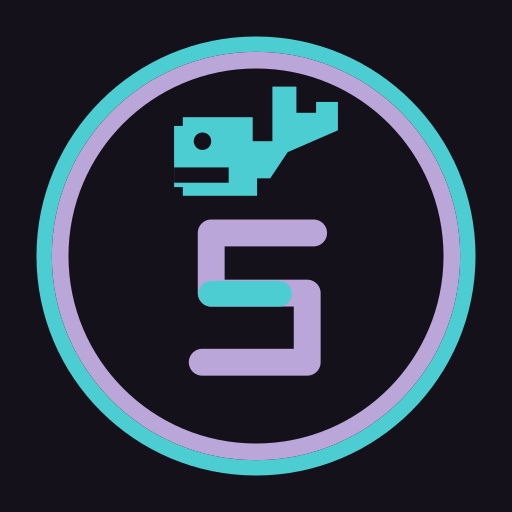
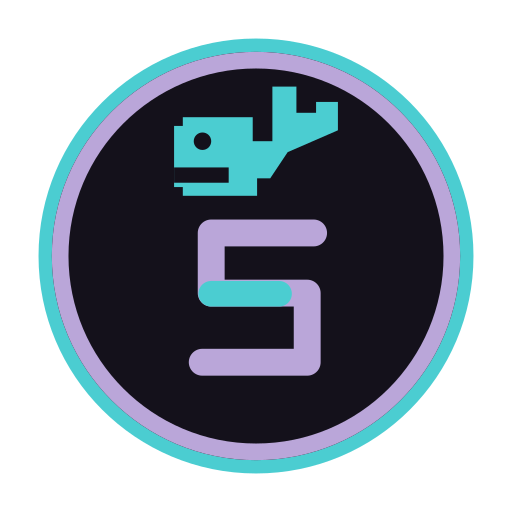
fix(assets): make the mark rasters transparent outside the ring
Both PNGs baked the ink field into a full square tile, so the mark could
not drop onto any surface without dark corners. They are now transparent
outside a circle of r 169.9, just inside the ring's outer edge at 171.5,
which makes each render a coin.

This follows the convention already used by the org marks in the website
repository, where three of the four are masked this way.

The SVGs keep their opaque field so they still stand alone. docs/assets.md
records how to regenerate.

diff --git a/docs/assets.md b/docs/assets.md
@@ -21,3 +21,9 @@ The whale nods at DeepSeek, which `agent/sirens-deep.yaml` selects. It is not a 
 ## sirens-deep-lockup.svg, sirens-deep-lockup.png
 
 Secondary lockup, the same whale over the coilyco S. Matches the org avatars most closely, since they all carry the S, so reach for it where the mark needs to sit in an obvious row with its siblings. The S is one round-capped stroke of w 21 following `M245 182 H165 V229 H240 V283 H158`, with an offset mint bar across its waist.
+
+## Regenerating the mark rasters
+
+The SVGs keep an opaque field so they stand alone, but the PNGs are transparent outside a circle of r 169.9, just inside the ring's outer edge at r 171.5. Each render is therefore a coin rather than a square tile, and drops onto any surface without dark corners. The same convention, at its own radius, governs the copies of these marks in the website repository.
+
+Render at the target size, clip the alpha to that circle, and zero the fully transparent pixels. Do not bake the field into the PNG.
